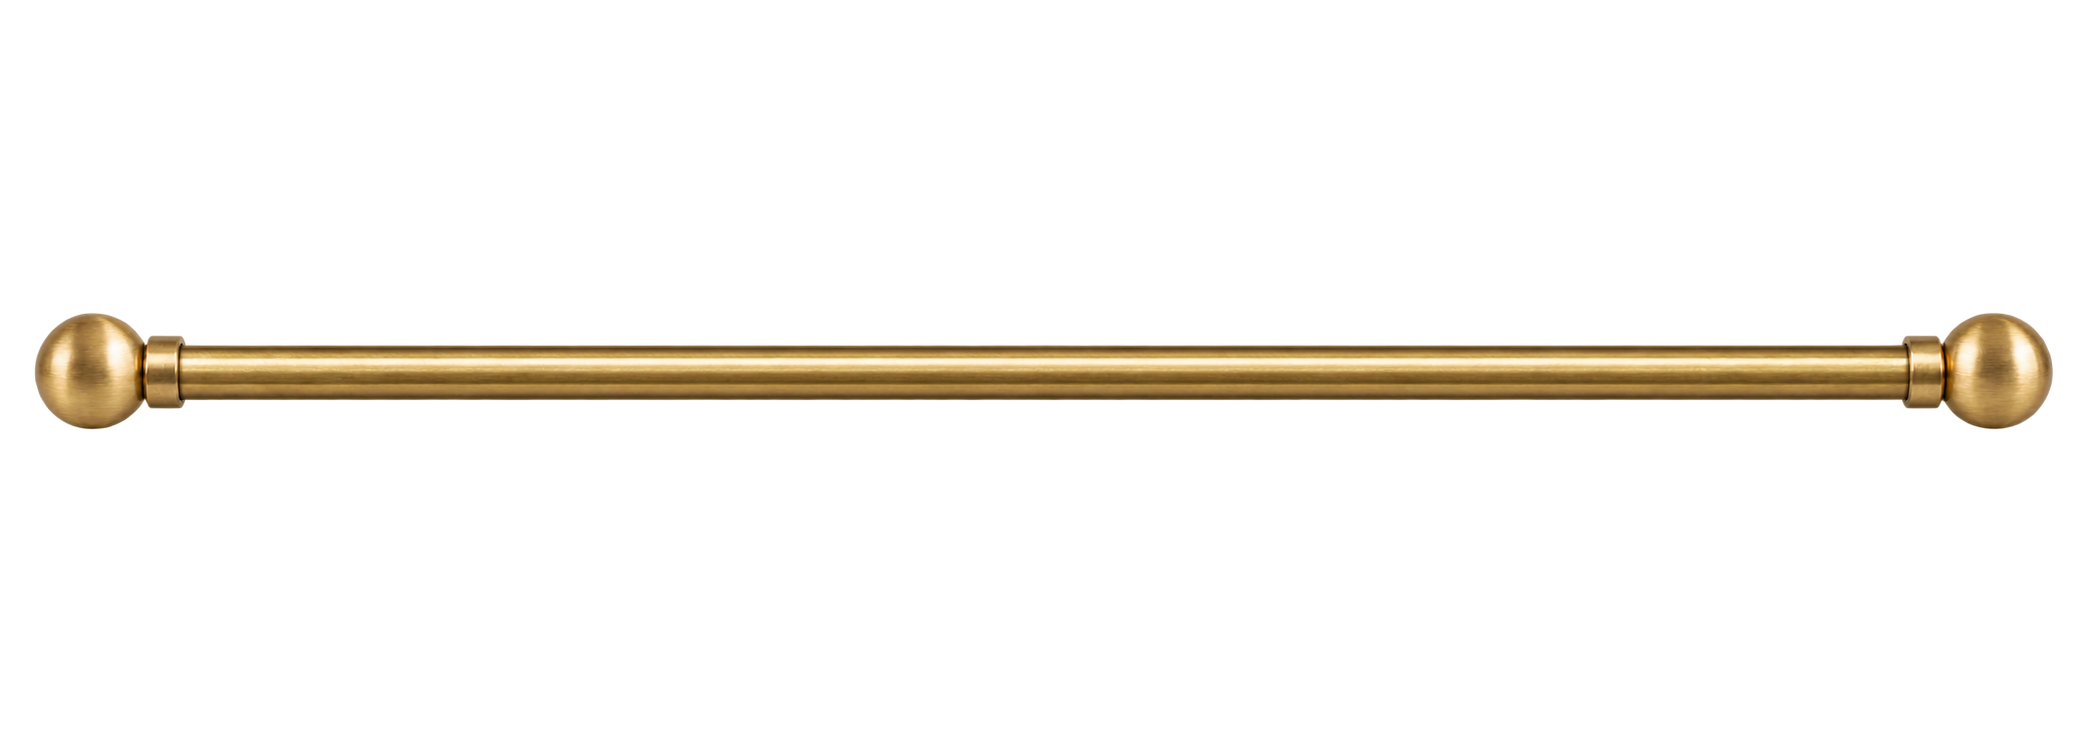
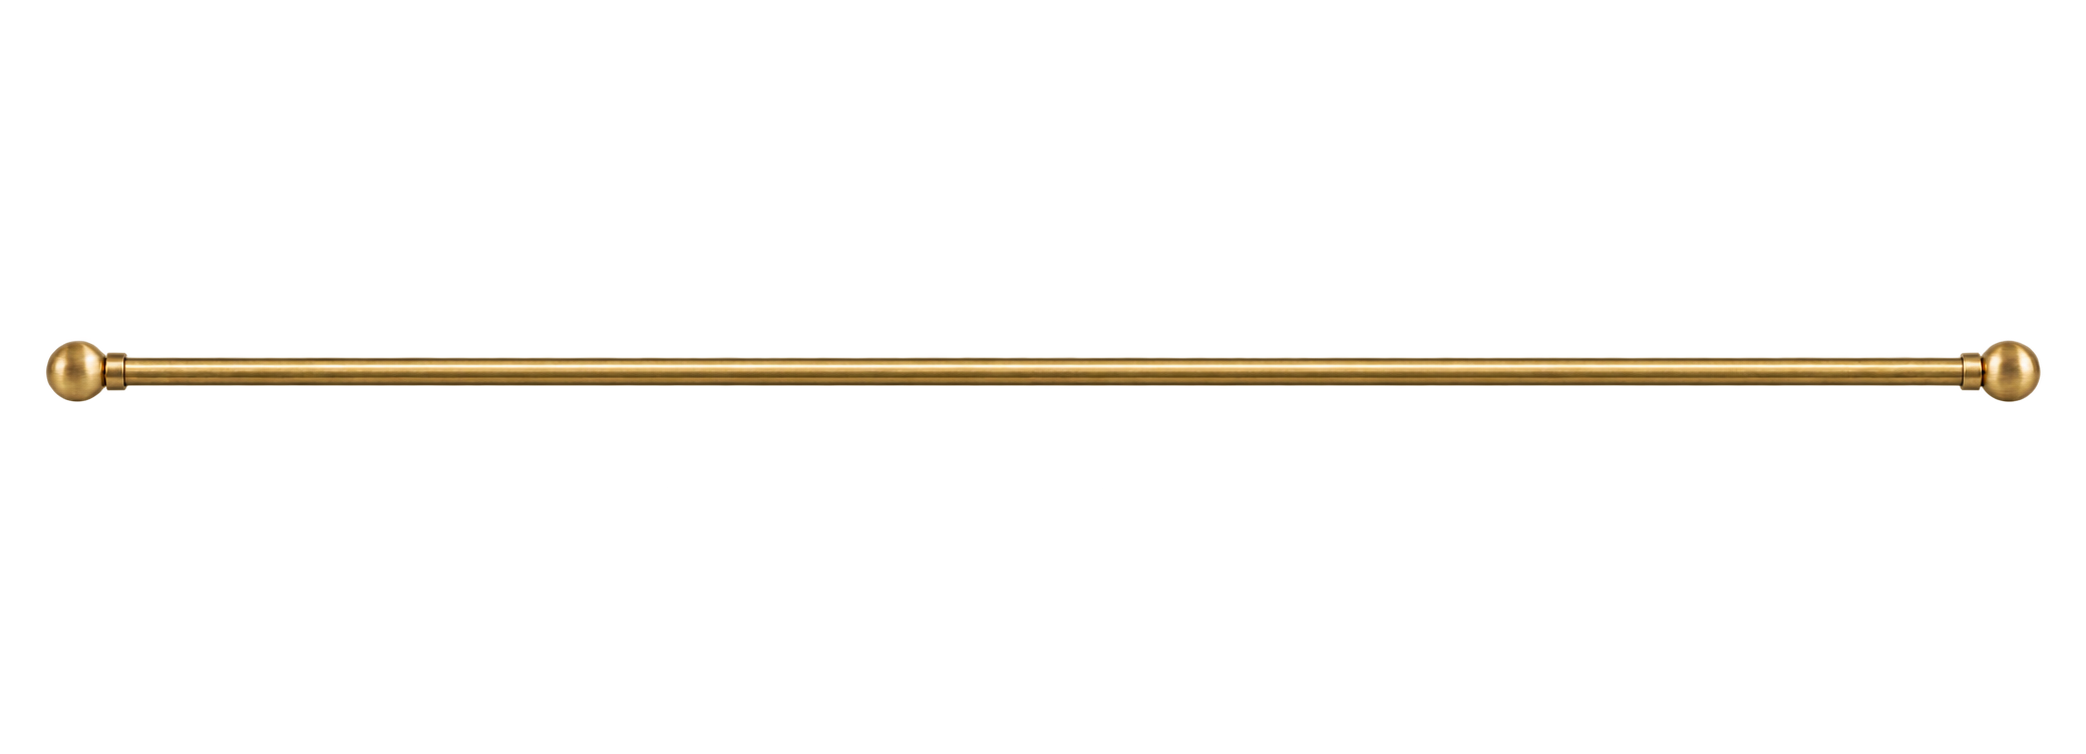
fix: reduce rod and finial scale

Changed region(s): [[0.0, 0.3966, 0.9971, 0.5796]]

diff --git a/src/components/ImageAssetEditor.tsx b/src/components/ImageAssetEditor.tsx
@@ -19,11 +19,11 @@ const blankTransform = (): AssetTransform => ({ position: { x: 0, y: 0, z: 0 }, 
 function overlayUrl(product: Product) {
   const style = product.renderStyle;
   if (!style || !["wave", "blackout", "sheer", "roller", "rod", "bracket", "finial", "hook", "wand"].includes(style)) return product.image;
-  if (product.id.includes("curtain-grid")) return "/assets/overlays/curtain-grid.png?v=2";
-  if (product.id.includes("curtain-stripes")) return "/assets/overlays/curtain-stripes.png?v=2";
-  if (style === "wave" || style === "blackout" || style === "sheer" || style === "roller") return "/assets/overlays/curtain-dots.png?v=2";
+  if (product.id.includes("curtain-grid")) return "/assets/overlays/curtain-grid.png?v=3";
+  if (product.id.includes("curtain-stripes")) return "/assets/overlays/curtain-stripes.png?v=3";
+  if (style === "wave" || style === "blackout" || style === "sheer" || style === "roller") return "/assets/overlays/curtain-dots.png?v=3";
   const walnut = product.material === "walnut" || product.material === "wood" || product.id.includes("wood");
-  return `/assets/overlays/${style === "rod" ? "rod" : style}-${walnut ? "walnut" : "brass"}.png?v=2`;
+  return `/assets/overlays/${style === "rod" ? "rod" : style}-${walnut ? "walnut" : "brass"}.png?v=3`;
 }
 
 function loadImage(src: string) {
